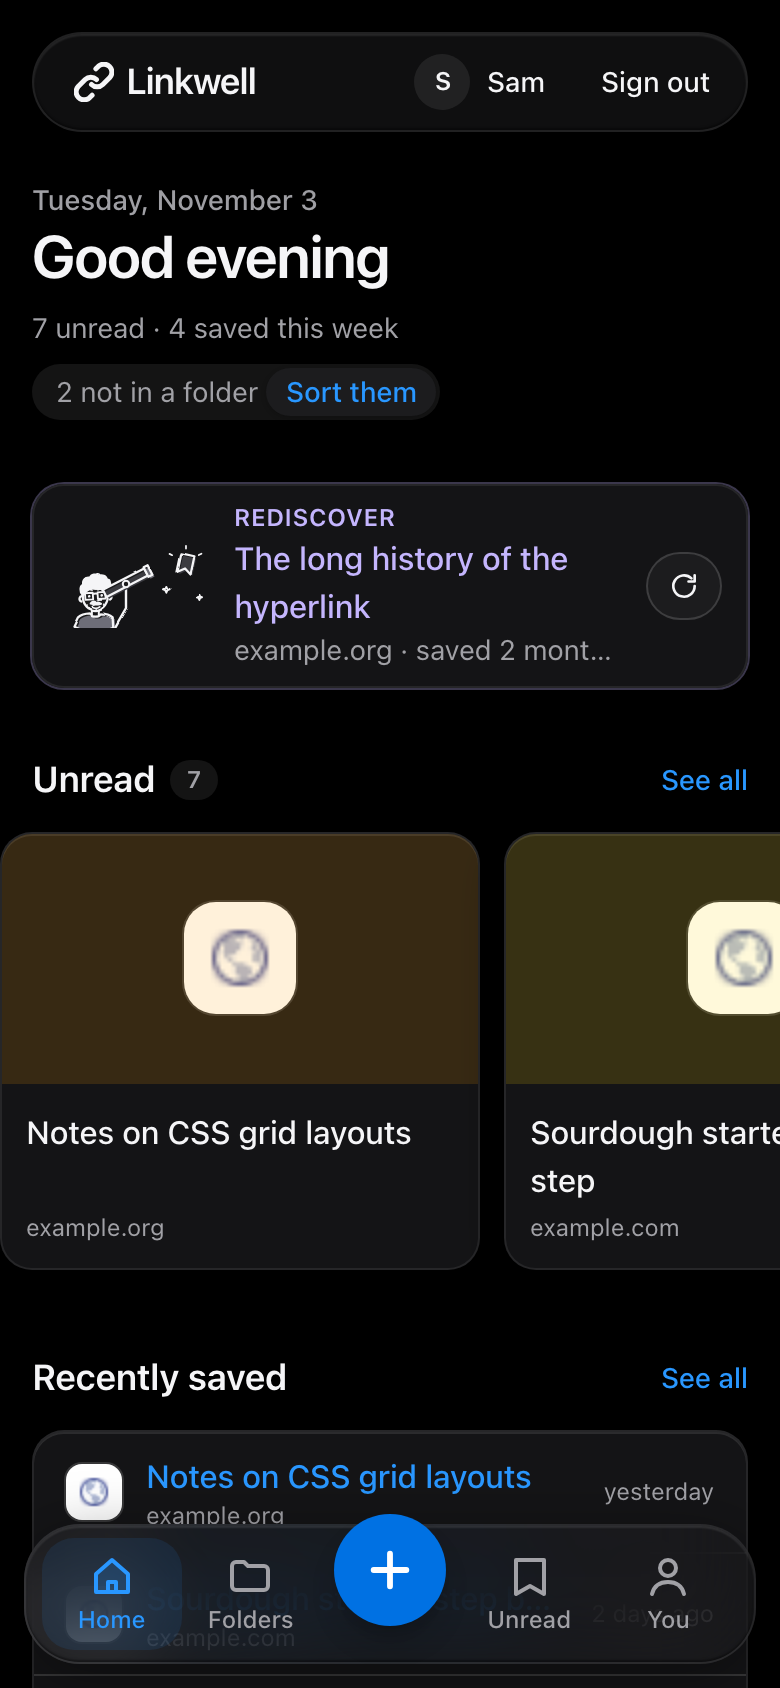
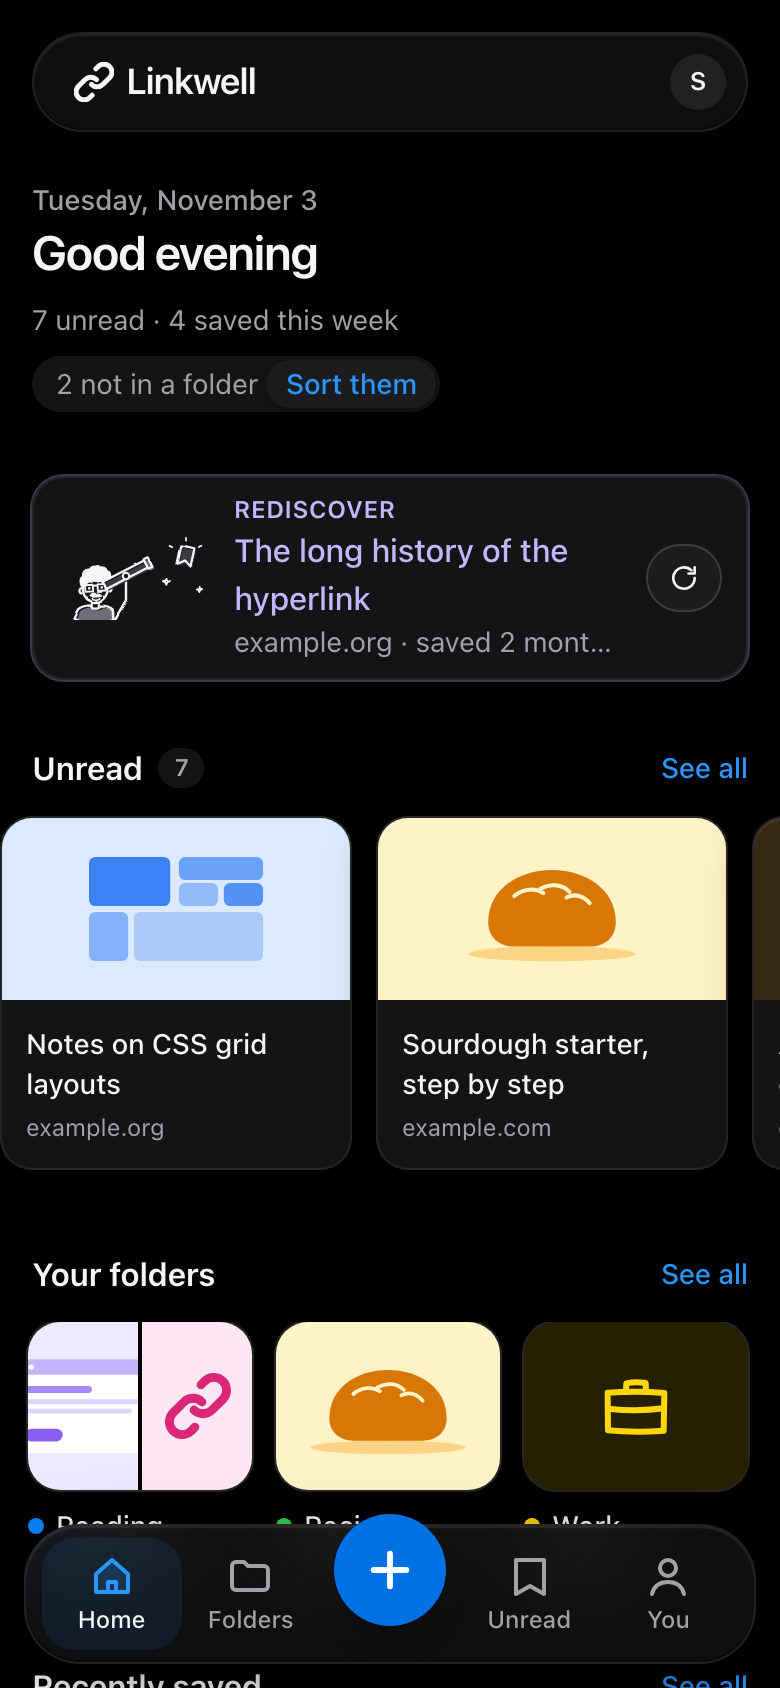
Phone layout, screenshots that update, readable active tab
- Phones: a slim top bar (logo and picture; Sign out on the account page),
  a smaller greeting, smaller Unread cards, folders before Recently saved
- Landing page imports its screenshots, so new ones show at once instead
  of an old cached copy; the screenshot script gives the sample links
  pictures and the folders icons (per user, from the session)
- Dark mode: the active tab's label is ink (blue measured 4.43:1)
- Browser tests updated for Home (40 pass)

diff --git a/components/HomeView.tsx b/components/HomeView.tsx
@@ -84,7 +84,7 @@ export default function HomeView({ links, folders, now, rediscover, onSelectList
         <p suppressHydrationWarning className="text-sm font-medium text-muted">
           {date}
         </p>
-        <p suppressHydrationWarning className="text-3xl font-semibold tracking-tight text-ink">
+        <p suppressHydrationWarning className="text-2xl font-semibold tracking-tight text-ink sm:text-3xl">
           {hello}
         </p>
         <div className="mt-2 flex flex-wrap items-center gap-2 text-sm text-muted">
@@ -146,8 +146,10 @@ export default function HomeView({ links, folders, now, rediscover, onSelectList
         )}
 
         {topFolders.length > 0 && (
-          // Wide screens have every folder in the sidebar already: See all is for phones.
-          <Section id="home-folders" title="Your folders" seeAllLabel="See all folders" onSeeAll={onShowFolders} seeAllOnPhonesOnly>
+          // Wide screens have every folder in the sidebar already: See all is
+          // for phones. On phones folders come first: a quick row to swipe.
+          <Section
+            className="max-lg:order-first" id="home-folders" title="Your folders" seeAllLabel="See all folders" onSeeAll={onShowFolders} seeAllOnPhonesOnly>
             <ul aria-label="Your folders" className={`${ROW} sm:grid-cols-3 lg:grid-cols-2`}>
               {topFolders.slice(0, FOLDERS_SHOWN).map((folder) => (
                 <FolderTile
@@ -175,6 +177,7 @@ export default function HomeView({ links, folders, now, rediscover, onSelectList
 const ROW = "-mx-4 flex snap-x snap-mandatory gap-3 overflow-x-auto px-4 pb-2 sm:mx-0 sm:grid sm:overflow-visible sm:px-0 sm:pb-0";
 
 function Section({
+  className = "",
   id,
   title,
   count,
@@ -183,6 +186,7 @@ function Section({
   seeAllOnPhonesOnly = false,
   children,
 }: {
+  className?: string;
   id: string;
   title: string;
   count?: number;
@@ -192,9 +196,9 @@ function Section({
   children: ReactNode;
 }) {
   return (
-    <section aria-labelledby={id} className="min-w-0">
+    <section aria-labelledby={id} className={`min-w-0 ${className}`}>
       <div className="mb-3 flex items-center justify-between gap-4">
-        <h2 id={id} className="flex items-center gap-2 text-lg font-semibold text-ink">
+        <h2 id={id} className="flex items-center gap-2 text-base font-semibold text-ink sm:text-lg">
           {title}
           {count !== undefined && <span className="rounded-full bg-hover px-2 py-0.5 text-xs font-semibold text-muted">{count}</span>}
         </h2>
@@ -222,7 +226,7 @@ function LinkTile({ link, onShowDetails, hideWhenWide }: { link: Link; onShowDet
       onClick={(event) => {
         if (!(event.target as Element).closest("a")) onShowDetails(link.id);
       }}
-      className={`glass flex w-60 shrink-0 cursor-pointer snap-start flex-col overflow-hidden rounded-2xl transition-shadow hover:shadow-lg sm:w-auto ${hideWhenWide ? "sm:hidden" : ""}`}
+      className={`glass flex w-44 shrink-0 cursor-pointer snap-start flex-col overflow-hidden rounded-2xl transition-shadow hover:shadow-lg sm:w-auto ${hideWhenWide ? "sm:hidden" : ""}`}
     >
       {link.image ? (
         <PreviewImage src={link.image} className="w-full" />
@@ -234,7 +238,7 @@ function LinkTile({ link, onShowDetails, hideWhenWide }: { link: Link; onShowDet
         </div>
       )}
       <div className="flex min-w-0 flex-1 flex-col p-3">
-        <a href={link.url} target="_blank" rel="noopener noreferrer" className="line-clamp-2 font-medium text-ink hover:text-accent hover:underline">
+        <a href={link.url} target="_blank" rel="noopener noreferrer" className="line-clamp-2 text-sm font-medium text-ink hover:text-accent hover:underline sm:text-base">
           {link.title || domain}
         </a>
         <p className="mt-auto truncate pt-1 text-xs text-muted">{domain}</p>
@@ -248,7 +252,7 @@ function LinkTile({ link, onShowDetails, hideWhenWide }: { link: Link; onShowDet
 function FolderTile({ folder, count, images, onOpen }: { folder: Folder; count: number; images: string[]; onOpen: () => void }) {
   const color = folder.color ?? "gray";
   return (
-    <li className="w-36 shrink-0 snap-start sm:w-auto">
+    <li className="w-28 shrink-0 snap-start sm:w-auto">
       <button onClick={onOpen} className="group w-full text-left focus:outline-none">
         <div className="relative aspect-[4/3] overflow-hidden rounded-2xl ring-1 ring-line transition-shadow group-hover:shadow-lg group-focus-visible:ring-2 group-focus-visible:ring-blue-400">
           {images.length > 0 ? (

diff --git a/e2e/linkwell.spec.ts b/e2e/linkwell.spec.ts
@@ -170,7 +170,8 @@ test("a link sent to /share is saved after one click", async ({ page, signIn }) 
   await expect(page.getByText("Saved to Linkwell.")).toBeVisible();
 
   await page.getByRole("link", { name: "Go to my links" }).click();
-  await expect(page.getByRole("link", { name: "Shared link" })).toBeVisible();
+  // Home: the newest links are in Recently saved.
+  await expect(page.getByRole("list", { name: "Recently saved" }).getByRole("link", { name: "Shared link" })).toBeVisible();
 });
 
 test("/share asks a signed-out visitor to sign in first", async ({ page }) => {
@@ -258,8 +259,8 @@ test("a user can import a bookmarks file, folders and all", async ({ page, signI
   await expect(page.getByText("Imported 2 links.")).toBeVisible();
 
   await page.getByRole("link", { name: "Go to my links" }).click();
-  await expect(page.getByRole("link", { name: "Imported loose link" })).toBeVisible();
-  await page.getByRole("button", { name: "Recipes" }).click();
+  await expect(page.getByRole("list", { name: "Recently saved" }).getByRole("link", { name: "Imported loose link" })).toBeVisible();
+  await page.getByRole("navigation", { name: "Your lists" }).getByRole("button", { name: "Recipes" }).click();
   await expect(page.getByRole("link", { name: "Imported soup" })).toBeVisible();
   await expect(page.getByRole("link", { name: "Imported loose link" })).toHaveCount(0);
 });
@@ -312,7 +313,7 @@ test("every page sends security headers, and nothing on it is blocked by them", 
   // The page still works: React's scripts ran (the save form responds).
   await page.goto("/");
   await saveLink(page, "https://example.com/csp", "Scripts still run");
-  await expect(page.getByRole("link", { name: "Scripts still run" })).toBeVisible();
+  await expect(page.getByRole("list", { name: "Recently saved" }).getByRole("link", { name: "Scripts still run" })).toBeVisible();
   expect(await violations()).toEqual([]);
 });
 
@@ -442,18 +443,18 @@ test("anyone can try the demo without an account, and nothing is saved", async (
   await page.goto("/?list=all");
   await page.getByRole("link", { name: "Try the demo" }).click();
   await expect(page).toHaveURL(/\/demo$/);
-  await expect(page.getByRole("link", { name: "Notes on CSS grid layouts" })).toBeVisible();
+  await expect(page.getByRole("list", { name: "Recently saved" }).getByRole("link", { name: "Notes on CSS grid layouts" })).toBeVisible();
   await expect(page.getByRole("region", { name: /^Rediscover/ })).toBeVisible();
 
   await saveLink(page, "https://example.com/tried-the-demo", "Tried the demo");
-  await expect(page.getByRole("link", { name: "Tried the demo" })).toBeVisible();
+  await expect(page.getByRole("list", { name: "Recently saved" }).getByRole("link", { name: "Tried the demo" })).toBeVisible();
   await page.getByRole("navigation", { name: "Your lists" }).getByRole("button", { name: "Recipes" }).click();
   await expect(page).toHaveURL(/\/demo\?folder=demo-recipes$/);
   expect(posts).toEqual([]);
 
   // A refresh starts over.
   await page.goto("/demo");
-  await expect(page.getByRole("link", { name: "Notes on CSS grid layouts" })).toBeVisible();
+  await expect(page.getByRole("list", { name: "Recently saved" }).getByRole("link", { name: "Notes on CSS grid layouts" })).toBeVisible();
   await expect(page.getByRole("link", { name: "Tried the demo" })).toHaveCount(0);
 });
 

diff --git a/components/Landing.tsx b/components/Landing.tsx
@@ -1,6 +1,12 @@
 import type { ReactNode } from "react";
 import NextLink from "next/link";
-import Image from "next/image";
+import Image, { type StaticImageData } from "next/image";
+// Imported, not linked by address: Next.js puts a fingerprint of each file in
+// its address, so new screenshots show at once instead of an old cached copy.
+import appDark from "@/public/screenshots/app-dark.png";
+import appLight from "@/public/screenshots/app-light.png";
+import phoneDark from "@/public/screenshots/phone-dark.png";
+import phoneLight from "@/public/screenshots/phone-light.png";
 import Footer from "@/components/Footer";
 import LogoMark from "@/components/LogoMark";
 import SignInButton from "@/components/SignInButton";
@@ -144,7 +150,8 @@ export default function Landing({ deleted = false }: { deleted?: boolean }) {
           <div className="relative mx-auto max-w-4xl md:pr-16">
             <figure className="hidden overflow-hidden rounded-2xl border border-line shadow-2xl shadow-black/10 md:block">
               <ThemeScreenshot
-                name="app"
+                light={appLight}
+                dark={appDark}
                 width={2560}
                 height={1600}
                 alt="Linkwell on a computer: Home, with a greeting, a Rediscover banner bringing back an old link, unread links as cards, and recently saved links next to your folders."
@@ -153,7 +160,8 @@ export default function Landing({ deleted = false }: { deleted?: boolean }) {
             </figure>
             <figure className="mx-auto w-60 overflow-hidden rounded-[1.75rem] border-4 border-ink/80 shadow-2xl shadow-black/20 md:absolute md:-bottom-10 md:right-0 md:w-44">
               <ThemeScreenshot
-                name="phone"
+                light={phoneLight}
+                dark={phoneDark}
                 width={780}
                 height={1688}
                 alt="Linkwell on a phone: Home, with a floating tab bar for Home, Folders, saving a link, Unread and your account."
@@ -240,11 +248,11 @@ export default function Landing({ deleted = false }: { deleted?: boolean }) {
 
 // A screenshot of the app in light and dark mode: both are in the page, and
 // CSS shows the one matching the visitor's mode (the hidden one isn't loaded).
-function ThemeScreenshot({ name, alt, ...props }: { name: string; width: number; height: number; alt: string; sizes: string }) {
+function ThemeScreenshot({ light, dark, alt, ...props }: { light: StaticImageData; dark: StaticImageData; width: number; height: number; alt: string; sizes: string }) {
   return (
     <>
-      <Image {...props} alt={alt} src={`/screenshots/${name}-light.png`} className="block h-auto w-full dark:hidden" />
-      <Image {...props} alt={alt} src={`/screenshots/${name}-dark.png`} className="hidden h-auto w-full dark:block" />
+      <Image {...props} alt={alt} src={light} className="block h-auto w-full dark:hidden" />
+      <Image {...props} alt={alt} src={dark} className="hidden h-auto w-full dark:block" />
     </>
   );
 }

diff --git a/e2e/screenshots.spec.ts b/e2e/screenshots.spec.ts
@@ -1,4 +1,7 @@
 import { expect, test } from "./fixtures";
+import { and, eq, inArray } from "drizzle-orm";
+import { drizzle } from "drizzle-orm/neon-http";
+import * as schema from "../db/schema";
 
 // Takes the landing page's screenshots of the app (public/screenshots/), in
 // light and dark mode, on a computer and a phone. Not a test: it only runs
@@ -19,6 +22,39 @@ const SAMPLES = [
   ["Recipes", "https://example.com/sourdough", "Sourdough starter, step by step", 2, "food"],
   ["", "https://example.org/css-grid", "Notes on CSS grid layouts", 1, "css,web,design"],
 ] as const;
+
+// The test server can't fetch real preview pictures, so the sample links get
+// the demo's own drawings (public/demo/), and the folders their icons, written
+// straight into the test database. Then the pictures look like real use.
+const PICTURES: Record<string, string> = {
+  "https://example.org/hyperlink-history": "/demo/hyperlink.svg",
+  "https://example.com/sourdough": "/demo/sourdough.svg",
+  "https://example.com/calm-interfaces": "/demo/calm-interfaces.svg",
+  "https://example.org/coast-hikes": "/demo/coast-hikes.svg",
+  "https://example.org/css-grid": "/demo/css-grid.svg",
+};
+const ICONS = { Reading: "book", Recipes: "coffee", Work: "briefcase" } as const;
+
+// userId: the signed-in test user's (light and dark run at the same time,
+// each with its own user, so it comes from that browser's session).
+async function dressUp(db: ReturnType<typeof drizzle<typeof schema>>, userId: string) {
+  const user = { id: userId };
+  for (const [url, image] of Object.entries(PICTURES)) {
+    await db.update(schema.links).set({ image }).where(and(eq(schema.links.userId, user.id), eq(schema.links.url, url)));
+  }
+  const folders = await db
+    .select()
+    .from(schema.folders)
+    .where(and(eq(schema.folders.userId, user.id), inArray(schema.folders.name, Object.keys(ICONS))));
+  for (const folder of folders) {
+    await db.update(schema.folders).set({ icon: ICONS[folder.name as keyof typeof ICONS] }).where(eq(schema.folders.id, folder.id));
+  }
+  // A folder inside a folder, so the sidebar's tree shows.
+  const reading = folders.find((folder) => folder.name === "Reading");
+  if (reading) {
+    await db.insert(schema.folders).values({ userId: user.id, name: "Design", color: "purple", icon: "star", parentId: reading.id });
+  }
+}
 
 function bookmarksFile() {
   const folders = [...new Set(SAMPLES.map(([folder]) => folder).filter(Boolean))];
@@ -55,6 +91,8 @@ for (const colorScheme of ["light", "dark"] as const) {
       });
       await page.getByRole("button", { name: /Import \d+ links/ }).click();
       await page.getByText(/Imported \d+ links/).waitFor();
+      const session = await (await page.request.get("/api/auth/get-session")).json();
+      await dressUp(drizzle(process.env.E2E_DATABASE_URL!, { schema }), session.user.id);
 
       await page.goto("/?list=all");
       // One link read, one with a note.

diff --git a/components/Header.tsx b/components/Header.tsx
@@ -16,7 +16,8 @@ type HeaderProps = {
 
 // The floating glass bar at the top of every signed-in page. The links scroll
 // underneath it. Your picture and name lead to your account page.
-// On phones, the middle part (the save box) gets a row of its own.
+// On phones, the middle part (the save box) gets a row of its own, and the
+// right side is just your picture (Sign out is on the account page there).
 export default function Header({ user, children, end, hideMiddleOnPhones = false }: HeaderProps) {
   return (
     <header
@@ -47,14 +48,15 @@ export default function Header({ user, children, end, hideMiddleOnPhones = false
           <div className="ml-auto flex min-w-0 items-center gap-1">
             <Link
               href="/account"
-              className="flex min-w-0 items-center gap-2 rounded-full py-1 pl-1 pr-3 text-sm font-medium text-ink hover:bg-hover focus:outline-none focus:ring-2 focus:ring-blue-400"
+              className="flex min-w-0 items-center gap-2 rounded-full p-1 text-sm font-medium text-ink hover:bg-hover focus:outline-none focus:ring-2 focus:ring-blue-400 md:pr-3"
             >
               <Avatar name={user.name} image={user.image} />
-              <span className="truncate">
+              {/* Phones show just the picture; screen readers still hear the name. */}
+              <span className="truncate max-md:sr-only">
                 {user.username ? `@${user.username}` : user.name}
               </span>
             </Link>
-            <SignOutButton />
+            <SignOutButton className="btn-quiet max-md:hidden" />
           </div>
         )
       )}

diff --git a/components/BottomBar.tsx b/components/BottomBar.tsx
@@ -54,9 +54,10 @@ export default function BottomBar({ activeList, inFolder, onSelectList, onSave, 
 
   const tab = (name: string) =>
     `relative z-10 flex flex-col items-center gap-0.5 rounded-2xl py-1.5 text-xs font-medium focus:outline-none focus-visible:ring-2 focus-visible:ring-blue-400 ${
-      active === name ? "text-accent" : "text-muted"
+      active === name ? "text-ink" : "text-muted"
     }`;
-  // The outline drawing fills in while its tab is the one you're on.
+  // The outline drawing fills in, in the accent blue, while its tab is the one
+  // you're on. The label stays ink: blue text on the blue pill is too faint.
   const icon = (name: string, children: ReactNode) => (
     <svg
       key={tapped?.tab === name ? tapped.count : 0}
@@ -68,7 +69,7 @@ export default function BottomBar({ activeList, inFolder, onSelectList, onSave, 
       strokeLinecap="round"
       strokeLinejoin="round"
       aria-hidden="true"
-      className={`size-6 ${tapped?.tab === name ? "motion-safe:animate-tap" : ""}`}
+      className={`size-6 ${active === name ? "text-accent" : ""} ${tapped?.tab === name ? "motion-safe:animate-tap" : ""}`}
     >
       {children}
     </svg>

diff --git a/app/account/page.tsx b/app/account/page.tsx
@@ -3,6 +3,7 @@ import Link from "next/link";
 import { redirect } from "next/navigation";
 import Avatar from "@/components/Avatar";
 import Bookmarklet from "@/components/Bookmarklet";
+import SignOutButton from "@/components/SignOutButton";
 import DeleteAccount from "@/components/DeleteAccount";
 import Footer from "@/components/Footer";
 import Header from "@/components/Header";
@@ -40,6 +41,8 @@ export default async function AccountPage() {
                 <p className="truncate text-sm text-muted">{user.email}</p>
                 <p className="text-sm text-muted">Joined {joined}</p>
               </div>
+              {/* Phones: the top bar has no room for Sign out, so it's here. */}
+              <SignOutButton className="btn-secondary ml-auto shrink-0 md:hidden" />
             </div>
 
             <div className="mt-6 border-t border-line pt-6">

diff --git a/e2e/contrast.spec.ts b/e2e/contrast.spec.ts
@@ -85,9 +85,11 @@ for (const colorScheme of ["light", "dark"] as const) {
     });
 
     test("every text on the demo is readable, details panel too", async ({ page }) => {
+      // Home first, then All links (its cards have Details).
       await page.goto("/demo");
-      await page.getByRole("link", { name: "Notes on CSS grid layouts" }).waitFor();
+      await page.getByRole("list", { name: "Recently saved" }).waitFor();
       const results = await measureContrast(page);
+      await page.getByRole("navigation", { name: "Your lists" }).getByRole("button", { name: "All links" }).click();
       await page.getByRole("button", { name: "Details" }).first().click();
       await page.getByRole("button", { name: "Close", exact: true }).waitFor();
       results.push(...(await measureContrast(page)));

diff --git a/components/SignOutButton.tsx b/components/SignOutButton.tsx
@@ -3,7 +3,7 @@
 import { useRouter } from "next/navigation";
 import { authClient } from "@/lib/auth-client";
 
-export default function SignOutButton() {
+export default function SignOutButton({ className = "btn-quiet" }: { className?: string }) {
   const router = useRouter();
 
   return (
@@ -13,7 +13,7 @@ export default function SignOutButton() {
         // Re-render the Server Component page, which now finds no session.
         router.refresh();
       }}
-      className="btn-quiet"
+      className={className}
     >
       Sign out
     </button>

diff --git a/docs/ROADMAP.md b/docs/ROADMAP.md
@@ -16,8 +16,8 @@ Each milestone is small enough to finish and ship on its own. The **"You'll lear
 
 **To ship them (when everything on the branch is done):**
 - [x] Migrations `0014` and `0015` on dev and test
-- [ ] Migration `0016` (pinned folders) on dev and test, then `npm run e2e` (the browser tests for Home and the tab bar haven't run yet)
-- [ ] `npm run screenshots`, so the landing page and README show the new Home (needs `0016` on the test database), and commit the pictures
+- [x] Migration `0016` (pinned folders) on dev and test; `npm run e2e` passes (40 tests)
+- [x] `npm run screenshots`: the landing page and README show the new Home
 - [ ] Push the branch and open a pull request (a draft is fine, to show the work in progress)
 - [ ] Right before merging: `npm run backup`, then migrations `0014`, `0015` and `0016` on production (`MAINTENANCE.md` → Database changes)
 - [ ] Merge with a normal merge (not "Squash and merge", so every commit keeps its own day on the contribution graph)
@@ -500,7 +500,7 @@ Choices made while finishing the plan (2026-11-03):
 
 **You'll learn:** a foreign key to its own table, trees and recursion (building the tree in the browser from the flat list we already load), preventing loops, and `WITH RECURSIVE` in SQL.
 
-## 🔜 v2.3: A real Home screen 🏡 (built 2026-11-03; migration `0016` and browser tests left)
+## 🔜 v2.3: A real Home screen 🏡 (built 2026-11-03; production migration left)
 
 The first screen is one long list today, so nothing feels organised. A **Home** view becomes the first screen, with short sections that each show a few things and a **See all**. On phones, a new floating tab bar to move around.
 
@@ -549,7 +549,11 @@ RECENTLY SAVED                                See all →
 - [x] Home: the date, the greeting and a one-line summary ("7 unread · 4 saved this week") with the broken and unsorted nudges right under it; Unread is one row on wide screens; Recently saved and Your folders side by side; sites without a picture get their icon on a colour of their own instead of a grey box
 - [x] Sidebar: every list has an icon like the folders; counts of 0 are hidden; Check links is a quiet row; the Trash sits apart at the bottom; a folder's ▸ arrow hangs in the margin, so all icons line up
 - [x] Select mode: with nothing ticked, only the hint, **Select all** and Done (no greyed-out buttons squeezed together); the actions appear once something is ticked
-- [ ] **You:** run migration `0016` on dev and test, then `npm run e2e`: the contrast and browser tests now cover Home, the bar and the Folders screen (written, not run yet). Production before merging
+- [x] Phones: the top bar is just the logo and your picture (Sign out moved to the account page); a smaller greeting; smaller Unread cards so the next one peeks in; folders as a compact row before Recently saved
+- [x] The landing page imports its screenshots, so Next.js gives each version its own address and new pictures show at once (same-named files were served from an old cached copy); `npm run screenshots` gives the sample links the demo's pictures and the folders their icons, so the pictures look like real use
+- [x] Dark mode: the active tab's label is ink, not blue (blue on the blue pill measured 4.43:1, under the 4.5:1 needed)
+- [x] Migration `0016` on dev and test; the contrast and browser tests cover Home, the bar and the Folders screen
+- [ ] **You:** migration `0016` on production before merging
 
 **You'll learn:** designing from what the user needs first, sideways scrolling sections, combining several views of the same data on one screen, frosted glass with `backdrop-filter`, animating with CSS transforms, and page transitions.
 

diff --git a/docs/ARCHITECTURE.md b/docs/ARCHITECTURE.md
@@ -47,7 +47,7 @@ adding code. It describes how things are **now**; why they got that way is in
 | `__tests__/`, `e2e/` | Unit tests (Vitest) and browser tests (Playwright) |
 | `scripts/` | `npm run backup` / `restore` |
 | `extension/` | The browser extension: plain JavaScript that only opens `/share` |
-| `public/` | Static files: app icons, landing-page screenshots |
+| `public/` | Static files: app icons, landing-page screenshots (imported by `Landing.tsx`, so each version gets its own address), the demo's pictures |
 
 Root files: `proxy.ts` (runs before every page), `next.config.ts` (security
 headers), `drizzle.config.ts`, `vercel.json` (cron), `.env.local` (secrets,
